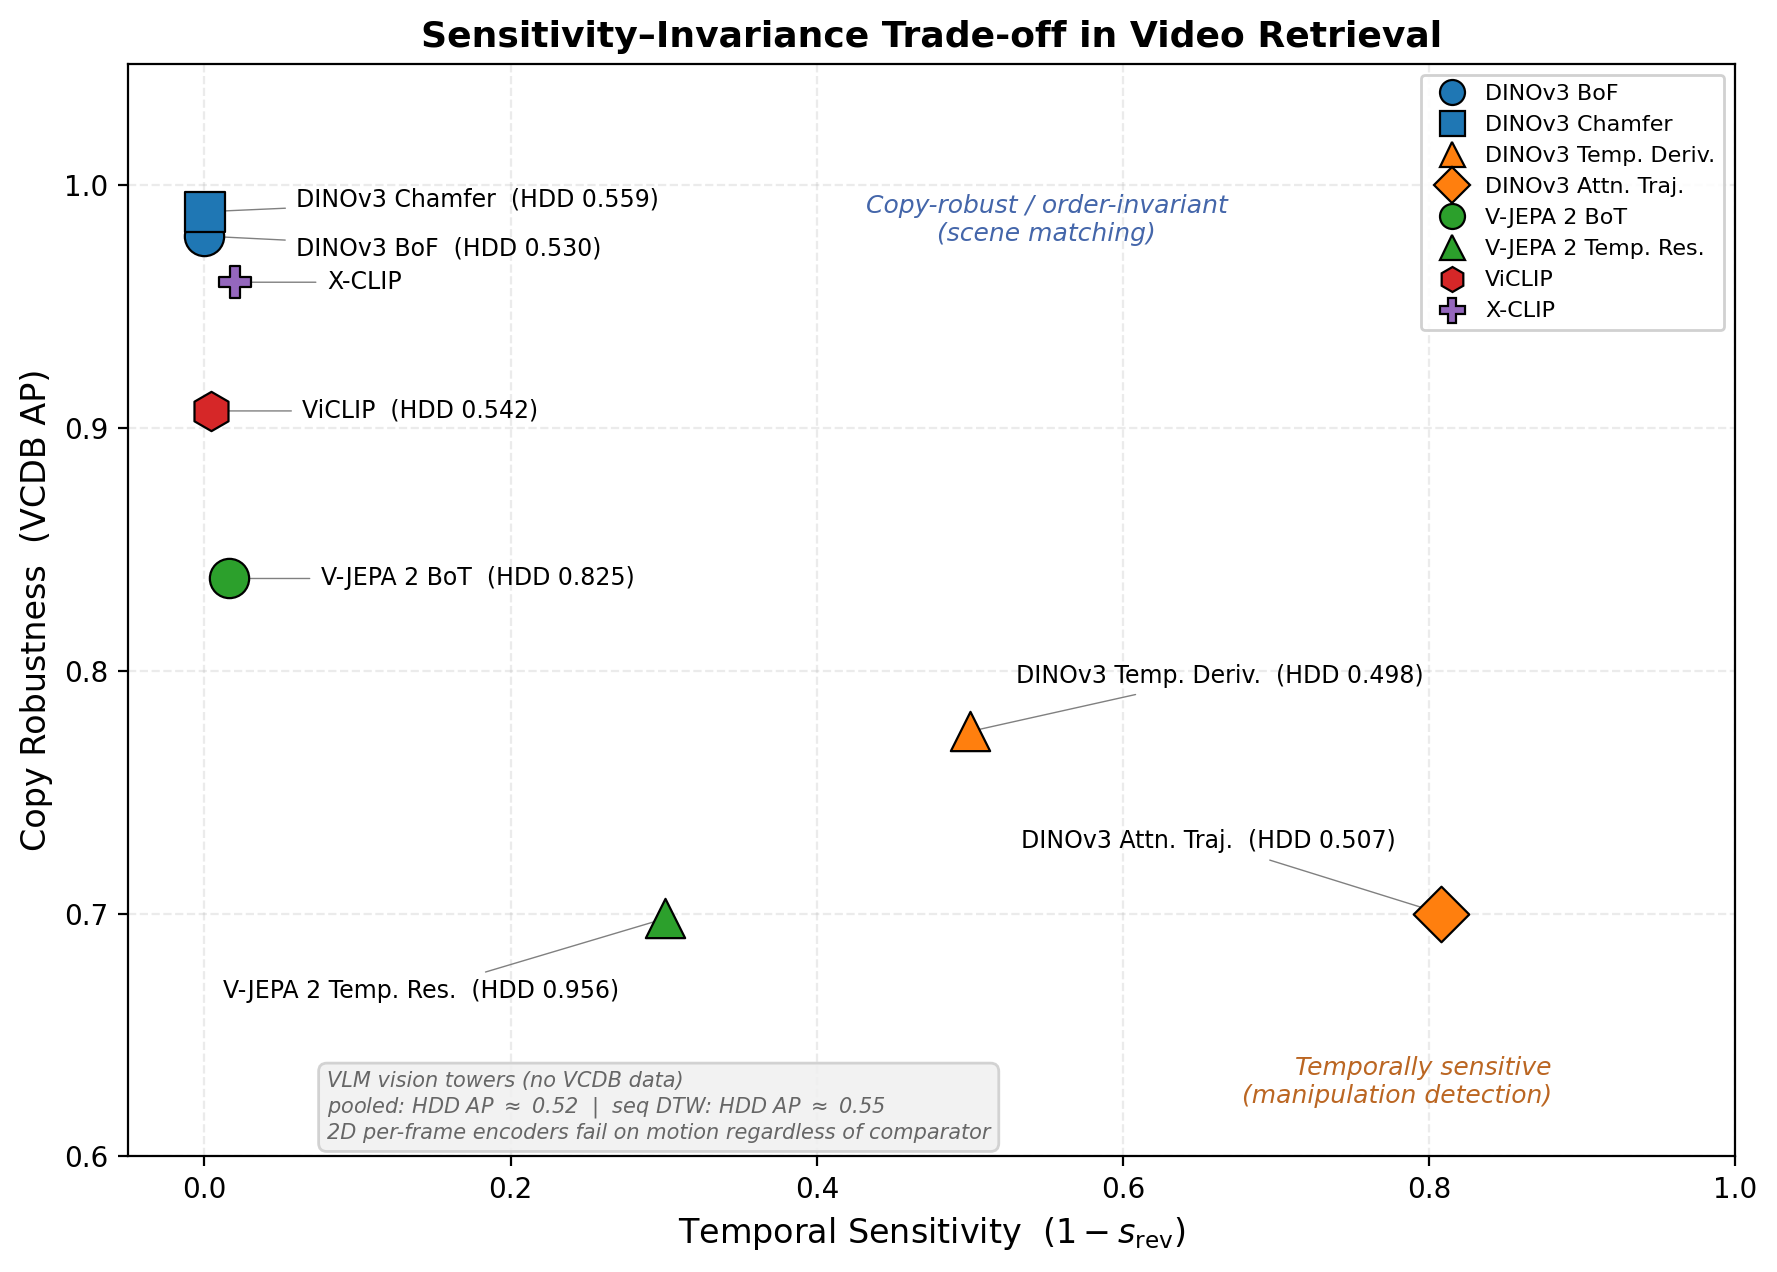
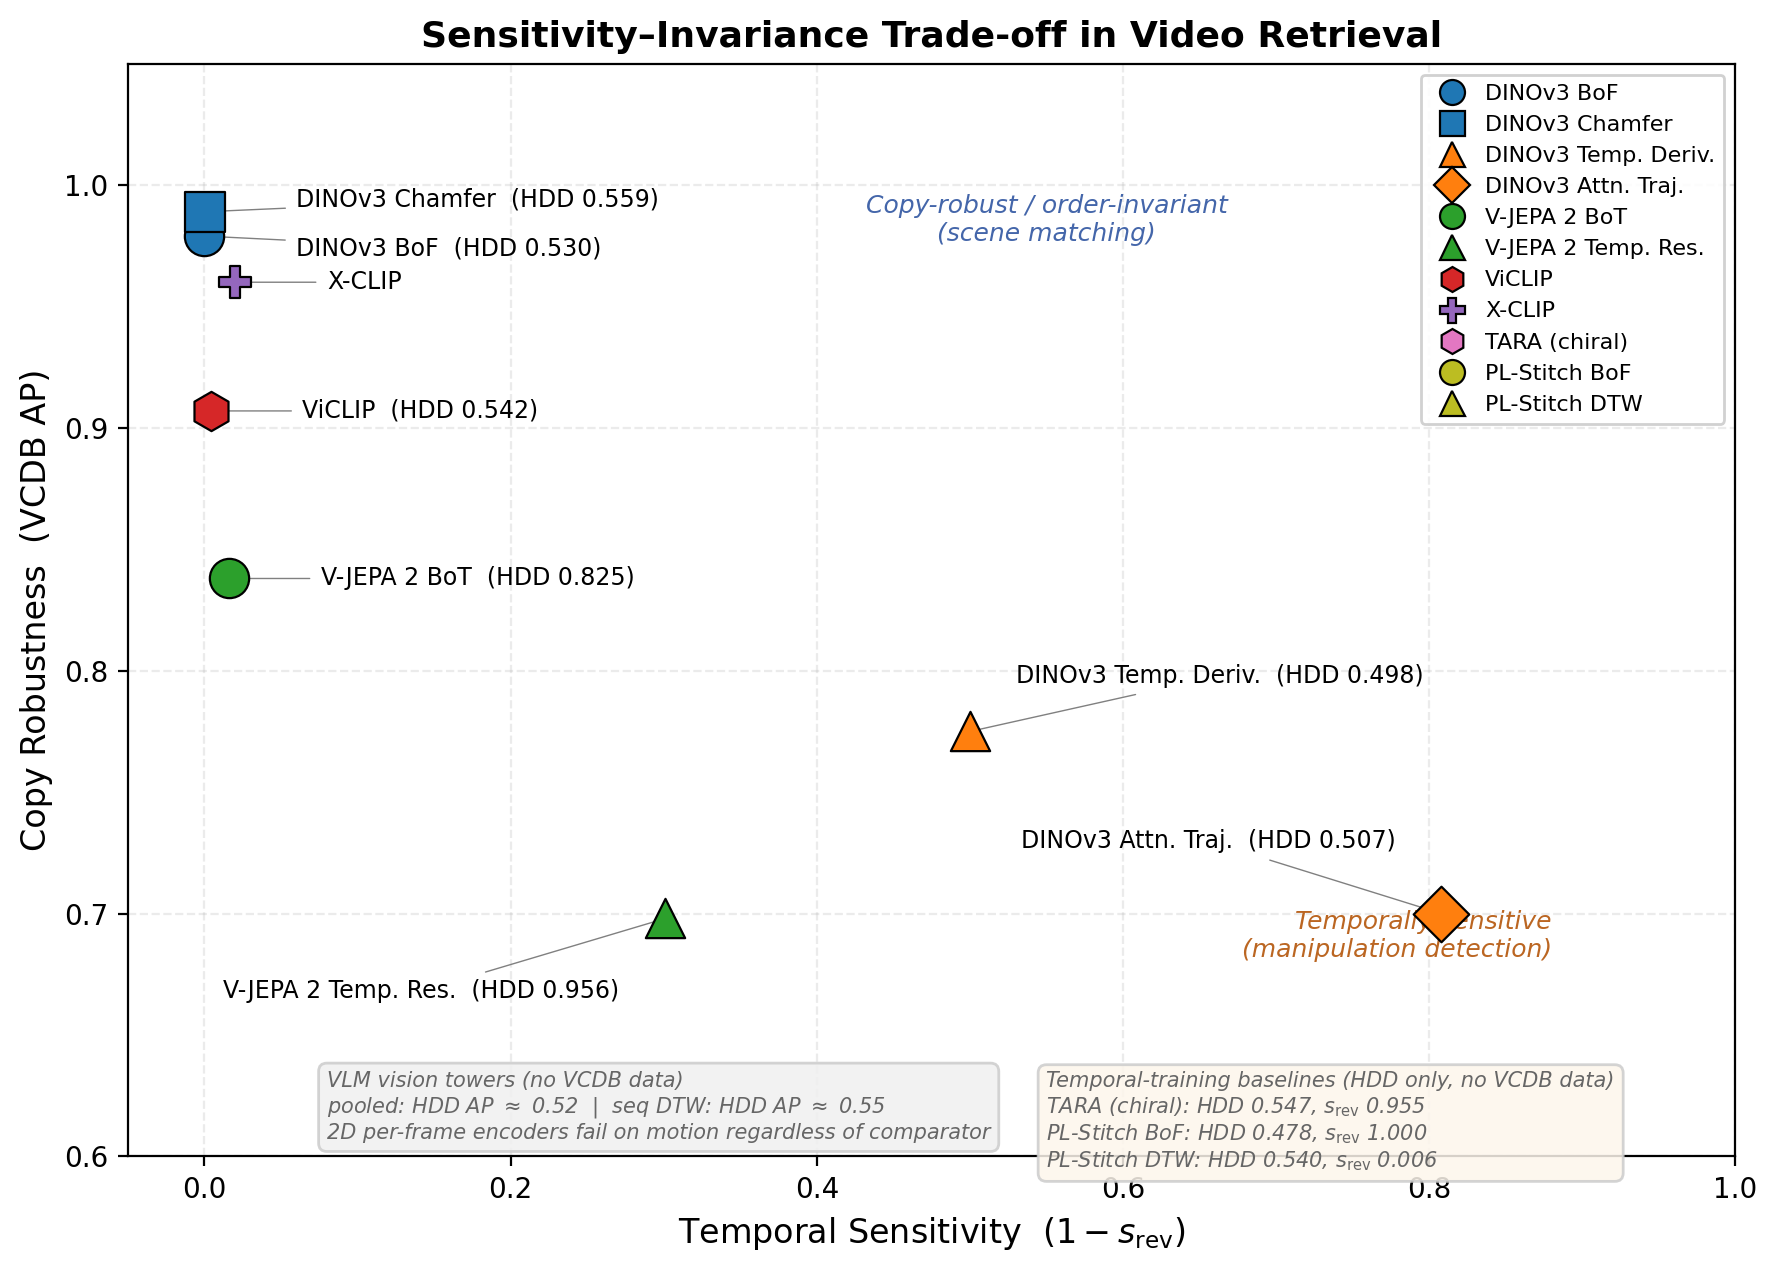
Update figures with TARA/PL-Stitch, cut 0.4 pages for NeurIPS limit
Figures:
- Fig 3 (HDD bar chart): add TARA, ViCLIP, PL-Stitch (4 methods)
- Fig 5 (sensitivity-invariance): add annotation box for TARA/PL-Stitch

Page cuts (~0.4 pages):
- Move context sweep table to appendix (new §Context Sweep Table)
- Condense VLM generative probes prose
- Tighten context sweep intro

New: scripts/plot_hdd_all_methods.py for combined HDD bar chart.

Changed region(s): [[0.5881, 0.8278, 0.9285, 0.9505], [0.8047, 0.2453, 0.9285, 0.3373], [0.7119, 0.7052, 0.8666, 0.7665]]

diff --git a/paper/paper.tex b/paper/paper.tex
@@ -193,33 +193,14 @@ Two encoders trained with explicit temporal objectives reinforce the comparator 
 \subsubsection{Sampling Density: Context Window Sweep}
 \label{sec:context_sweep}
 
-The FPS downsample experiment (Appendix~\ref{sec:fps_invariance}) confounds sampling density with padding. We fix the backbone and pair set on HDD and sweep clip duration via \texttt{context\_sec} $\in \{1.0, 2.0, 3.0, 4.0, 6.5, 8.0\}$ while always extracting 64 unique frames ($\text{fps}_\text{eff} = 64 / d$).
+We fix the backbone and pair set on HDD and sweep clip duration via \texttt{context\_sec} $\in \{1.0, \ldots, 8.0\}$ while always extracting 64 unique frames ($\text{fps}_\text{eff} = 64 / d$), avoiding the padding confound of the FPS downsample experiment (Appendix~\ref{sec:fps_invariance}).
 
 \begin{figure}[ht]
     \centering
     \includegraphics[width=0.9\textwidth]{../figures/hdd_context_sweep.png}
-    \caption{V-JEPA~2 context sweep on Honda HDD (1{,}687 maneuvers, 128 sessions). Temporal residual remains substantially more robust than BoT across all settings. The ``knee'' around 4--6.5\,s marks a regime change where both signals degrade sharply.}
+    \caption{V-JEPA~2 context sweep on Honda HDD (1{,}687 maneuvers, 128 sessions). Temporal residual degrades more slowly than BoT; the gap grows from $+0.038$ at 1\,s to $+0.224$ at 8\,s (full table in Appendix~\ref{sec:context_sweep_table}).}
     \label{fig:context_sweep}
 \end{figure}
-
-\begin{table}[ht]
-\centering
-\caption{Context sweep on HDD (1{,}687 maneuvers, 64 unique frames, no padding). $\text{fps}_\text{eff} = 64\,/\,d$ where $d$ is clip duration in seconds.}
-\begin{tabular}{rcccc}
-\toprule
-\textbf{context\_sec} & \textbf{fps\textsubscript{eff}} & \textbf{Temporal Residual AP} & \textbf{BoT AP} & \textbf{$\Delta$ (Res.\ $-$ BoT)} \\
-\midrule
-1.0 & 11.1 & 0.962 & 0.924 & +0.038 \\
-2.0 & 8.1 & 0.963 & 0.877 & +0.086 \\
-3.0 & 6.4 & 0.956 & 0.825 & +0.131 \\
-4.0 & 5.3 & 0.940 & 0.774 & +0.166 \\
-6.5 & 3.8 & 0.872 & 0.663 & +0.209 \\
-8.0 & 3.2 & 0.838 & 0.614 & +0.224 \\
-\bottomrule
-\end{tabular}
-\end{table}
-
-Both signals degrade as the window widens, but temporal residual degrades more slowly. The gap grows with sparser sampling ($+0.224$ AP at 8\,s): the residual holds up under temporal dilution where spatial content alone does not.
 
 \subsubsection{Cross-Dataset Validation: nuScenes}
 \label{sec:nuscenes}
@@ -254,12 +235,12 @@ Gemini 3.1 Pro & 0.585 & 0.608 & 0.603 & $0.599 \pm 0.010$ \\
 \end{tabular}
 \end{table}
 
-All three open-weight VLMs perform at chance. Claude~4.6 Opus~\cite{claude4opus} (200 sequences, 16 frames via API) achieves $0.545 \pm 0.055$, no better. Gemini~3.1 Pro~\cite{gemini31pro}, a reasoning model that expends thinking tokens before answering, reaches $0.599 \pm 0.010$---marginally above chance but far from reliable temporal perception. Answers across all five models are driven by prompt phrasing, not temporal direction (Appendix~\ref{sec:integrity_probe} and~\ref{sec:prompt_details}).
+All five models perform at or near chance; Gemini~3.1 Pro~\cite{gemini31pro} (a reasoning model) reaches $0.599 \pm 0.010$---marginally above chance but far from reliable. Answers are driven by prompt phrasing, not temporal direction (Appendix~\ref{sec:integrity_probe} and~\ref{sec:prompt_details}).
 
 \subsubsection{Embedding Probes: Where Temporal Signal Dies}
 \label{sec:vlm_embedding}
 
-The generative results show that VLMs \emph{output} answers that carry no temporal information. We probe whether temporal signal is present in internal representations but discarded.
+VLMs \emph{output} answers carrying no temporal information. We probe whether temporal signal persists in internal representations but is discarded.
 
 \begin{table}[ht]
 \centering
@@ -488,6 +469,28 @@ FPS Cap & \% Active & Mean Unique & Mean Dup\% & Effect \\
 \end{table}
 
 Segment durations range from 7.0\,s to 46.0\,s (mean 10.1\,s), yielding $\text{target\_fps} \in [1.39, 9.14]$ (mean 6.66). All values fall below the lowest non-trivial cap (10\,FPS), so meaningful degradation occurs only when the cap drops below the native target rate.
+
+\section{Context Sweep Table}
+\label{sec:context_sweep_table}
+
+\begin{table}[h]
+\centering
+\caption{Context sweep on HDD (1{,}687 maneuvers, 64 unique frames, no padding). $\text{fps}_\text{eff} = 64\,/\,d$ where $d$ is clip duration in seconds.}
+\begin{tabular}{rcccc}
+\toprule
+\textbf{context\_sec} & \textbf{fps\textsubscript{eff}} & \textbf{Temporal Residual AP} & \textbf{BoT AP} & \textbf{$\Delta$ (Res.\ $-$ BoT)} \\
+\midrule
+1.0 & 11.1 & 0.962 & 0.924 & +0.038 \\
+2.0 & 8.1 & 0.963 & 0.877 & +0.086 \\
+3.0 & 6.4 & 0.956 & 0.825 & +0.131 \\
+4.0 & 5.3 & 0.940 & 0.774 & +0.166 \\
+6.5 & 3.8 & 0.872 & 0.663 & +0.209 \\
+8.0 & 3.2 & 0.838 & 0.614 & +0.224 \\
+\bottomrule
+\end{tabular}
+\end{table}
+
+Both signals degrade as the window widens, but temporal residual degrades more slowly. The gap grows with sparser sampling ($+0.224$ AP at 8\,s): the residual holds up under temporal dilution where spatial content alone does not.
 
 \section{VLM Layer Ablation}
 \label{sec:layer_ablation}

diff --git a/scripts/plot_hdd_all_methods.py b/scripts/plot_hdd_all_methods.py
@@ -1,0 +1,104 @@
+"""Regenerate HDD maneuver discrimination bar chart with all methods.
+
+Combines DINOv3, V-JEPA 2, ViCLIP, TARA, and PL-Stitch results.
+"""
+
+import json
+from pathlib import Path
+
+import matplotlib
+matplotlib.use("Agg")
+import matplotlib.pyplot as plt
+import numpy as np
+
+project_root = Path(__file__).parent.parent
+fig_dir = project_root / "figures"
+
+# ── Collect results ──────────────────────────────────────────────────
+# Order matches Table 2 in the paper
+methods = [
+    ("DINOv3\nTemp. Deriv.", 0.498, 0.526, "#ff7f0e"),
+    ("DINOv3\nAttn. Traj.", 0.507, 0.541, "#ff7f0e"),
+    ("DINOv3\nBoF", 0.530, 0.542, "#1f77b4"),
+    ("DINOv3\nChamfer", 0.559, 0.577, "#1f77b4"),
+    ("ViCLIP", 0.542, 0.549, "#d62728"),
+    ("TARA\n(chiral)", 0.547, 0.600, "#e377c2"),
+]
+
+# Load PL-Stitch results
+pl_path = project_root / "datasets" / "pl_stitch_hdd_results.json"
+if pl_path.exists():
+    with open(pl_path) as f:
+        pl = json.load(f)
+    methods.extend([
+        ("PL-Stitch\nBoF", pl["hdd"]["bag_of_frames"]["ap"], pl["hdd"]["bag_of_frames"]["auc"], "#bcbd22"),
+        ("PL-Stitch\nChamfer", pl["hdd"]["chamfer"]["ap"], pl["hdd"]["chamfer"]["auc"], "#bcbd22"),
+        ("PL-Stitch\nTemp. Deriv.", pl["hdd"]["temporal_derivative"]["ap"], pl["hdd"]["temporal_derivative"]["auc"], "#bcbd22"),
+        ("PL-Stitch\nDTW", pl["hdd"]["dtw_raw"]["ap"], pl["hdd"]["dtw_raw"]["auc"], "#bcbd22"),
+    ])
+
+# Load TARA results (overwrite placeholder if JSON available)
+tara_path = project_root / "datasets" / "tara_hdd_results.json"
+if tara_path.exists():
+    with open(tara_path) as f:
+        tara = json.load(f)
+    # Update TARA entry
+    for i, (name, ap, auc, color) in enumerate(methods):
+        if "TARA" in name:
+            methods[i] = (name, tara["hdd"]["ap"], tara["hdd"]["auc"], color)
+
+# Add V-JEPA 2 methods (always last, best performers)
+methods.extend([
+    ("V-JEPA 2\nBoT", 0.825, 0.836, "#2ca02c"),
+    ("V-JEPA 2\nEnc-Seq DTW", 0.942, 0.935, "#2ca02c"),
+    ("V-JEPA 2\nTemp. Res.", 0.956, 0.952, "#2ca02c"),
+])
+
+labels = [m[0] for m in methods]
+aps = [m[1] for m in methods]
+aucs = [m[2] for m in methods]
+colors = [m[3] for m in methods]
+
+# ── Plot ─────────────────────────────────────────────────────────────
+fig, (ax1, ax2) = plt.subplots(1, 2, figsize=(18, 5.5))
+
+# AP
+bars = ax1.bar(range(len(methods)), aps, color=colors, edgecolor="black", linewidth=0.5)
+ax1.set_xticks(range(len(methods)))
+ax1.set_xticklabels(labels, fontsize=8, rotation=45, ha="right")
+for bar, val in zip(bars, aps):
+    ax1.text(
+        bar.get_x() + bar.get_width() / 2, bar.get_height() + 0.005,
+        f"{val:.3f}", ha="center", va="bottom", fontsize=7.5, fontweight="bold",
+    )
+ax1.set_ylabel("Average Precision", fontsize=12)
+ax1.set_title("Maneuver Discrimination: AP", fontsize=13)
+ax1.set_ylim(0, min(1.0, max(aps) * 1.15 + 0.05))
+ax1.axhline(y=0.5, color="gray", linestyle="--", alpha=0.5, label="Random")
+ax1.legend()
+
+# AUC
+bars = ax2.bar(range(len(methods)), aucs, color=colors, edgecolor="black", linewidth=0.5)
+ax2.set_xticks(range(len(methods)))
+ax2.set_xticklabels(labels, fontsize=8, rotation=45, ha="right")
+for bar, val in zip(bars, aucs):
+    ax2.text(
+        bar.get_x() + bar.get_width() / 2, bar.get_height() + 0.005,
+        f"{val:.3f}", ha="center", va="bottom", fontsize=7.5, fontweight="bold",
+    )
+ax2.set_ylabel("ROC-AUC", fontsize=12)
+ax2.set_title("Maneuver Discrimination: AUC", fontsize=13)
+ax2.set_ylim(0, min(1.0, max(aucs) * 1.15 + 0.05))
+ax2.axhline(y=0.5, color="gray", linestyle="--", alpha=0.5, label="Random")
+ax2.legend()
+
+fig.suptitle(
+    "Honda HDD: Left Turn vs Right Turn at Same Intersection",
+    fontsize=14, fontweight="bold",
+)
+fig.tight_layout()
+
+path = fig_dir / "hdd_maneuver_discrimination.png"
+fig.savefig(path, dpi=150)
+plt.close(fig)
+print(f"Saved: {path}")

diff --git a/scripts/plot_sensitivity_invariance.py b/scripts/plot_sensitivity_invariance.py
@@ -22,12 +22,17 @@ methods = [
     ("V-JEPA 2 Temp. Res.", 0.301, 0.698, 0.956, "^", "#2ca02c"),
     ("ViCLIP", 0.004, 0.907, 0.542, "h", "#d62728"),
     ("X-CLIP", 0.020, 0.960, None, "P", "#9467bd"),
+    ("TARA (chiral)", 0.045, None, 0.547, "h", "#e377c2"),
+    ("PL-Stitch BoF", 0.000, None, 0.478, "o", "#bcbd22"),
+    ("PL-Stitch DTW", 0.994, None, 0.540, "^", "#bcbd22"),
 ]
 
 fig, ax = plt.subplots(figsize=(9, 6.5))
 
 # ── Plot points ──────────────────────────────────────────────────────
 for label, ts, vcdb, hdd, marker, color in methods:
+    if vcdb is None:
+        continue  # HDD-only methods plotted separately below
     size = 200 if hdd is not None else 140
     ax.scatter(
         ts,
@@ -81,7 +86,7 @@ ax.text(
 )
 ax.text(
     0.88,
-    0.62,
+    0.68,
     "Temporally sensitive\n(manipulation detection)",
     fontsize=9,
     fontstyle="italic",
@@ -106,6 +111,23 @@ ax.annotate(
     fontstyle="italic",
     bbox=dict(
         boxstyle="round,pad=0.4", facecolor="#f0f0f0", edgecolor="#cccccc", alpha=0.85
+    ),
+)
+
+# ── Temporal-training baselines (HDD-only, no VCDB) ─────────────────
+ax.annotate(
+    "Temporal-training baselines (HDD only, no VCDB data)\n"
+    "TARA (chiral): HDD 0.547, $s_{\\mathrm{rev}}$ 0.955\n"
+    "PL-Stitch BoF: HDD 0.478, $s_{\\mathrm{rev}}$ 1.000\n"
+    "PL-Stitch DTW: HDD 0.540, $s_{\\mathrm{rev}}$ 0.006",
+    xy=(0.55, 0.635),
+    fontsize=7.5,
+    ha="left",
+    va="top",
+    color="#666666",
+    fontstyle="italic",
+    bbox=dict(
+        boxstyle="round,pad=0.4", facecolor="#fdf6ec", edgecolor="#cccccc", alpha=0.85
     ),
 )
 
